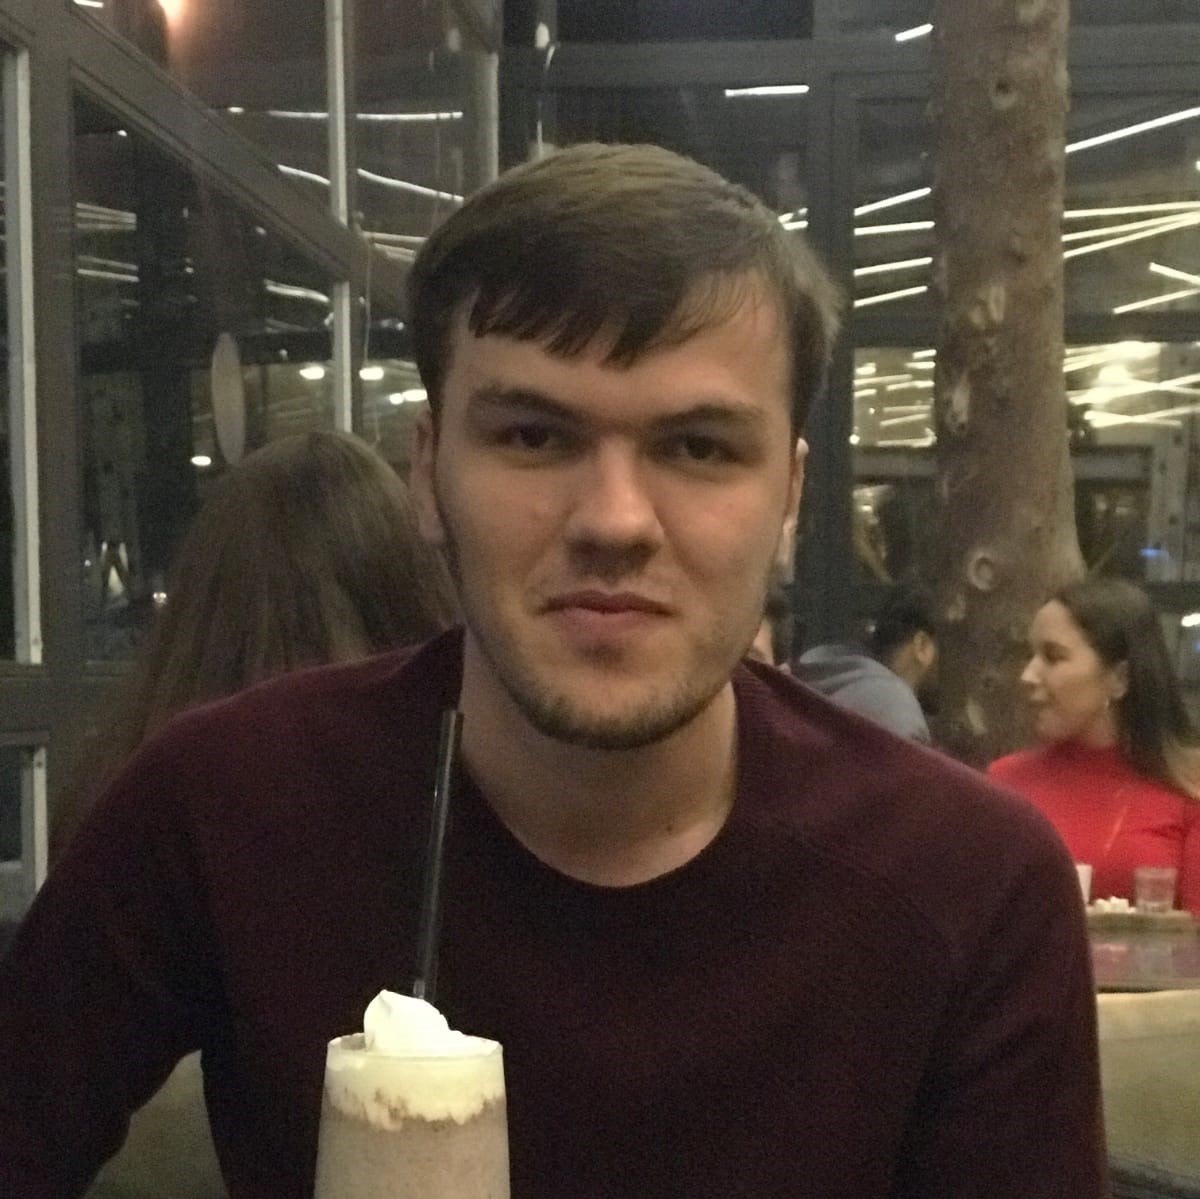
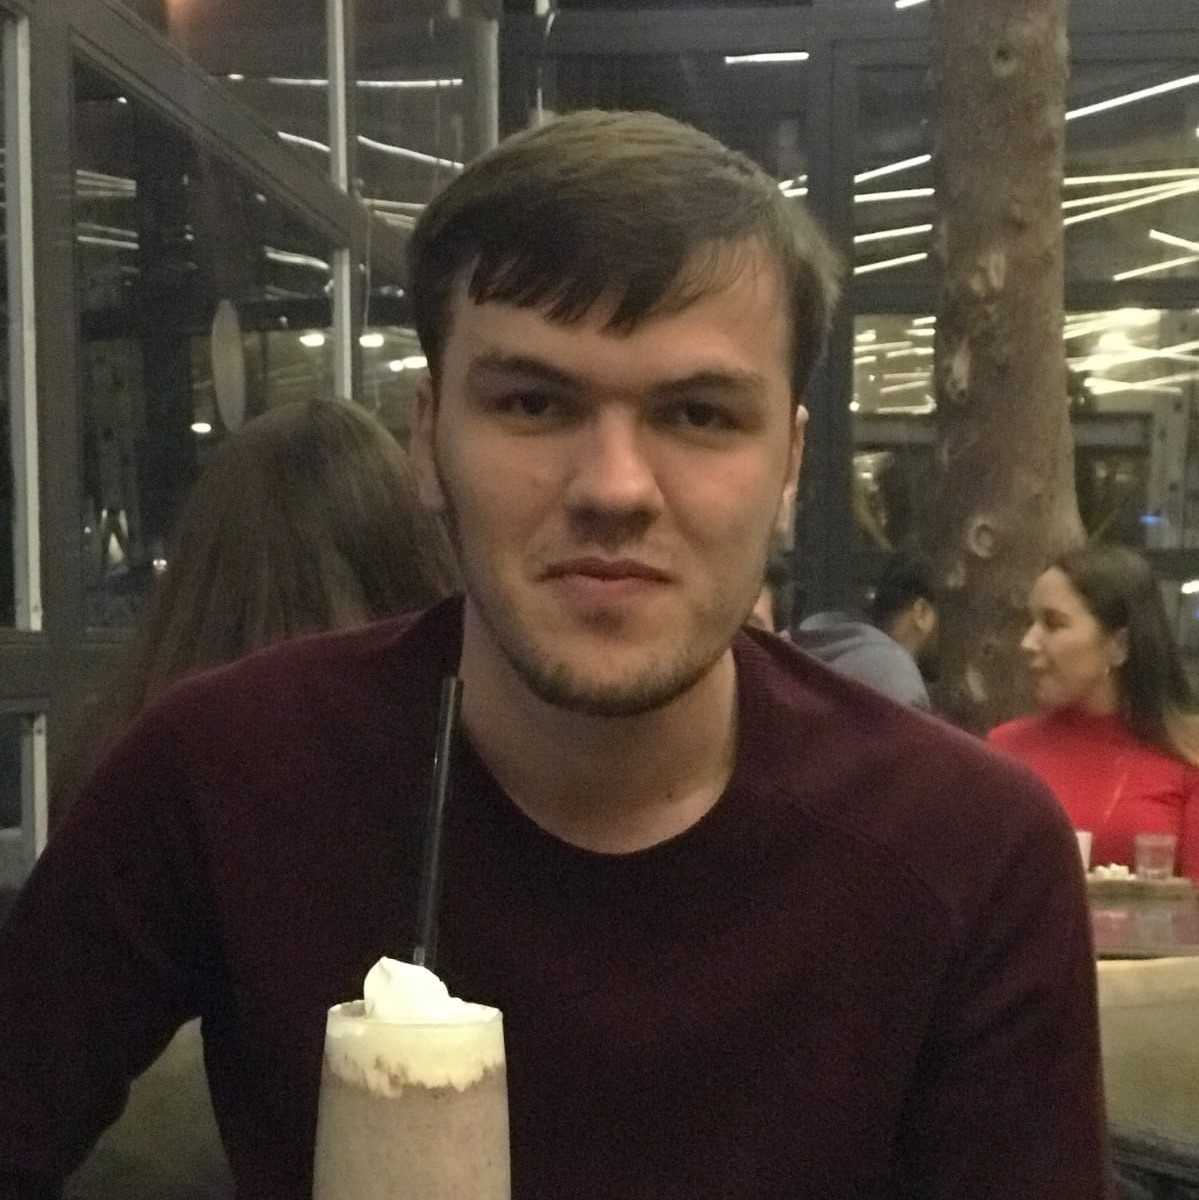
update webpage

diff --git a/Website/contact.html b/Website/contact.html
@@ -1,4 +1,4 @@
-<!Doctype html>
+<!Doctype html>
 <html>
 	<head>
 		<meta charset="utf-8">	
@@ -27,7 +27,7 @@
 			<div class="container">
 				<h1>You can contact us by using following links:</h1>
 				<div class="profile" id="omer">
-					<img class="Profile" src="img/Profile.png">
+					<img class="Profile" src="img/omer.jpg">
 					<h3>Ömer Kaya</h3>
 					<a href="https://twitter.com/Ahmeett_?lang=tr"><img src="img/Twitter_Logo.png"></a>				
 					<a href="https://www.facebook.com/61Ahmeett"><img src="img/Facebook_Logo.png"></a>

diff --git a/Website/css/myStyle.css b/Website/css/myStyle.css
@@ -139,3 +139,8 @@ aside#sidebar{
 	margin-bottom:10px;
 	color :white;
 }
+
+section div div img
+{
+	border-radius: 50%;
+}
